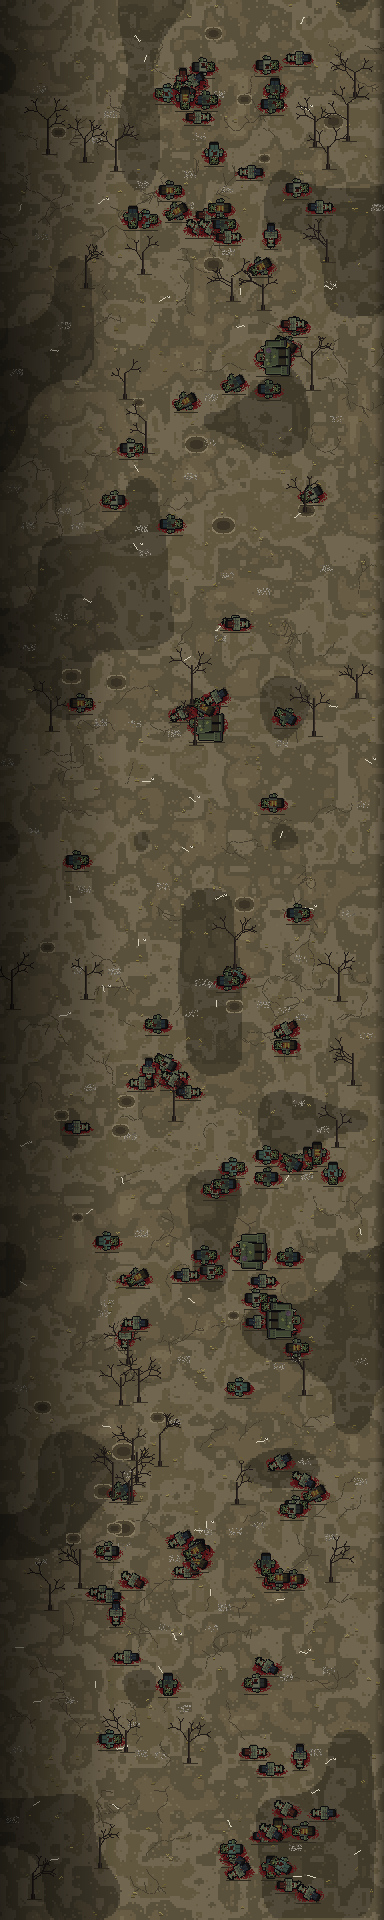
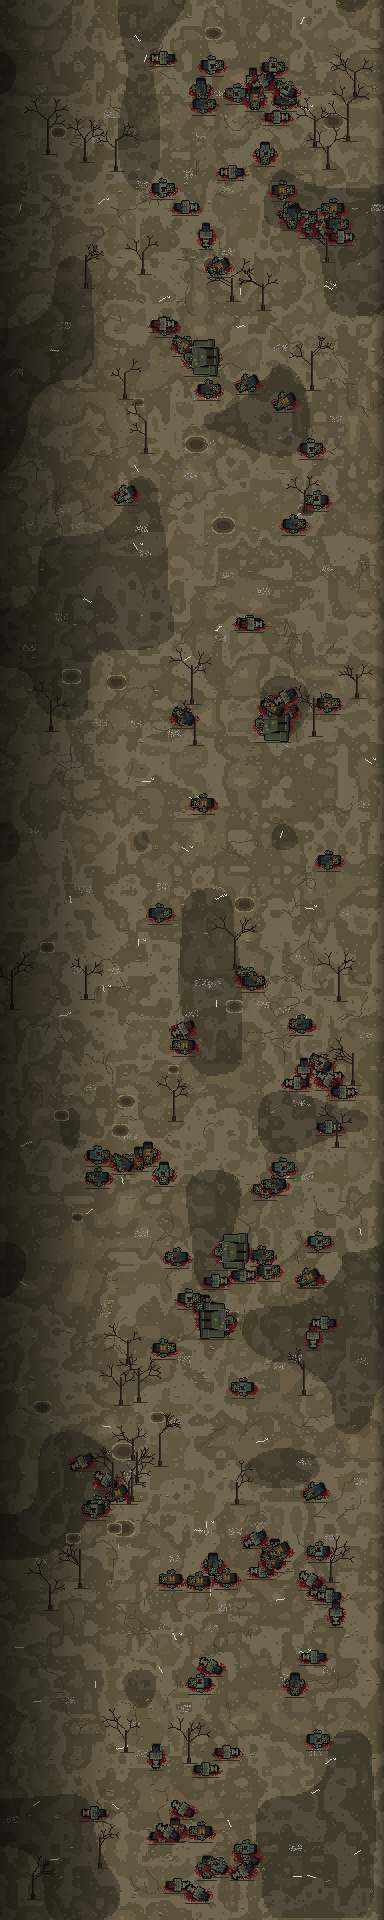
Cerca y campo desolado con zombis muertos tambien en los bordes norte y sur
Claude-Session: https://claude.ai/code/session_01Nd1Qi9rDLjxtiWNgaqNdmZ

diff --git a/tools/gen_wasteland.py b/tools/gen_wasteland.py
@@ -1,6 +1,6 @@
 #!/usr/bin/env python3
-"""Campo desolado al oeste del mapa (fuera de la cerca): assets/world/wasteland.png
-384x1920 px (24x120 tiles). Tierra reseca, grietas, cráteres, árboles muertos, huesos y
+"""Campo desolado fuera de la cerca en los bordes oeste, norte y sur del mapa:
+assets/world/wasteland.png (384x1920), wasteland_n.png y wasteland_s.png (3968x384, incluyen las esquinas). Tierra reseca, grietas, cráteres, árboles muertos, huesos y
 cadáveres de zombis (hojas de assets/sprites rotadas y apagadas). Procedural y determinista.
 Uso: python3 tools/gen_wasteland.py"""
 import math
@@ -11,8 +11,11 @@ from PIL import Image
 
 HERE = os.path.dirname(os.path.abspath(__file__))
 SPR = os.path.join(HERE, "..", "assets", "sprites")
-OUT = os.path.join(HERE, "..", "assets", "world", "wasteland.png")
-W, H = 384, 1920
+OUT_DIR = os.path.join(HERE, "..", "assets", "world")
+DEPTH = 384          # profundidad del campo (24 tiles)
+MAP_W, MAP_H = 3584, 1920   # mapa en px (224x120 tiles)
+W, H = DEPTH, MAP_H
+SIDE = "west"        # west | north | south: lado donde esta la cerca
 rnd = random.Random(20261104)
 
 
@@ -147,6 +150,19 @@ def dead_tree(img, x, y):
         put(img, x + dx, y + 1, hx("352e22"))
 
 
+def to_xy(depth, along):
+    """(profundidad desde la cerca, posicion a lo largo) -> pixel de la imagen."""
+    if SIDE == "west":
+        return W - depth, along
+    if SIDE == "north":
+        return along, H - depth
+    return along, depth
+
+
+def depth_of(x, y):
+    return W - x if SIDE == "west" else (H - y if SIDE == "north" else y)
+
+
 def corpse_sprites():
     """Zombis tumbados: cuadro 'idle abajo' de cada hoja, girado y apagado."""
     out = []
@@ -187,8 +203,9 @@ def place_corpses(img, n):
             ox, oy = rnd.choice(spots)
             x, y = ox + rnd.randint(-26, 26), oy + rnd.randint(-22, 22)
         else:
-            x = int(rnd.triangular(30, W - 40, W - 70))
-            y = rnd.randrange(20, H - 30)
+            depth = int(rnd.triangular(40, DEPTH - 30, 70))   # distancia a la cerca
+            along = rnd.randrange(20, (H if SIDE == "west" else W) - 30)
+            x, y = to_xy(depth, along)
         x = max(24, min(W - 34, x))
         y = max(20, min(H - 24, y))
         spots.append((x, y))
@@ -211,37 +228,47 @@ def place_corpses(img, n):
 def vignette(img):
     px = img.load()
     for x in range(W):
-        # oscurece hacia el oeste (el campo se pierde en la niebla)
-        k = min(1.0, x / 120.0)
-        f = 0.35 + 0.65 * k
         for y in range(H):
+            dp = depth_of(x, y)
+            k = min(1.0, (DEPTH - dp) / 120.0)   # el campo se pierde en la niebla lejos de la cerca
+            f = 0.35 + 0.65 * k
+            if dp < 10:   # franja de sombra junto a la cerca
+                f *= 1.0 - (10 - dp) * 0.035
+            if SIDE != "west" and x < DEPTH:   # esquina: continua el oscurecimiento de la franja oeste
+                f *= 0.35 + 0.65 * min(1.0, x / 120.0)
             r, g, b, a = px[x, y]
             px[x, y] = (int(r * f), int(g * f), int(b * f), a)
-    # franja de sombra junto a la cerca
-    for x in range(W - 10, W):
-        for y in range(H):
-            r, g, b, a = px[x, y]
-            f = 1.0 - (x - (W - 10)) * 0.035
-            px[x, y] = (int(r * f), int(g * f), int(b * f), a)
+
+
+def make(side, name):
+    global W, H, SIDE
+    SIDE = side
+    W, H = (DEPTH, MAP_H) if side == "west" else (MAP_W + DEPTH, DEPTH)
+    # las franjas norte/sur cubren tambien la esquina oeste (x desde -384)
+    img = base()
+    scale = (W * H) / (384 * 1920)
+    cracks(img, int(160 * scale))
+    for _ in range(int(28 * scale)):
+        crater(img, rnd.randrange(40, W - 40), rnd.randrange(30, H - 30), rnd.randrange(4, 9))
+    for _ in range(int(90 * scale)):
+        ash_pile(img, rnd.randrange(6, W - 6), rnd.randrange(6, H - 6))
+    tufts(img, int(380 * scale))
+    for _ in range(int(60 * scale)):
+        bones(img, rnd.randrange(12, W - 12), rnd.randrange(8, H - 8))
+    place_corpses(img, int(135 * scale))
+    for _ in range(int(46 * scale)):
+        dead_tree(img, rnd.randrange(10, W - 22), rnd.randrange(40, H - 6))
+    vignette(img)
+    os.makedirs(OUT_DIR, exist_ok=True)
+    path = os.path.join(OUT_DIR, name)
+    img.convert("RGB").save(path, optimize=True)
+    print("ok", name, img.size, os.path.getsize(path))
 
 
 def main():
-    img = base()
-    cracks(img, 160)
-    for _ in range(28):
-        crater(img, rnd.randrange(40, W - 40), rnd.randrange(30, H - 30), rnd.randrange(4, 9))
-    for _ in range(90):
-        ash_pile(img, rnd.randrange(6, W - 6), rnd.randrange(6, H - 6))
-    tufts(img, 380)
-    for _ in range(60):
-        bones(img, rnd.randrange(12, W - 12), rnd.randrange(8, H - 8))
-    place_corpses(img, 135)
-    for _ in range(46):
-        dead_tree(img, rnd.randrange(10, W - 22), rnd.randrange(40, H - 6))
-    vignette(img)
-    os.makedirs(os.path.dirname(OUT), exist_ok=True)
-    img.convert("RGB").save(OUT, optimize=True)
-    print("ok", OUT, os.path.getsize(OUT))
+    make("west", "wasteland.png")
+    make("north", "wasteland_n.png")
+    make("south", "wasteland_s.png")
 
 
 if __name__ == "__main__":

diff --git a/README.md b/README.md
@@ -245,7 +245,7 @@ También: brillos de objetos con un solo pulso compartido y percepción de zombi
 
 ### Anuncios, skins bloqueadas y borde oeste
 - **Mascota Tizón** (mapache: esquivar cuesta 40% menos, 12% menos daño): se consigue con un anuncio. Skins: solo Mateo viene desbloqueada; las otras se activan con «VER ANUNCIO» (anuncio de prueba hasta conectar AdMob, ver `docs/MONETIZACION.md`).
-- **Borde izquierdo del mapa**: cerca continua y, al otro lado, un campo desolado con zombis muertos (`scripts/wasteland.gd`, arte con `python3 tools/gen_wasteland.py`).
+- **Bordes oeste, norte y sur del mapa**: cerca continua y, al otro lado, un campo desolado con zombis muertos (`scripts/wasteland.gd`, arte con `python3 tools/gen_wasteland.py`).
 
 ### Sonido del avión de suministros
 El avión suena desde su propia posición (motor turbohélice con efecto Doppler, se oye acercarse, pasar y alejarse); además suenan la apertura del paracaídas y el golpe de la caja (`plane_pass`, `chute_open`, `crate_land`, generados en `tools/gen_sfx.py`).
